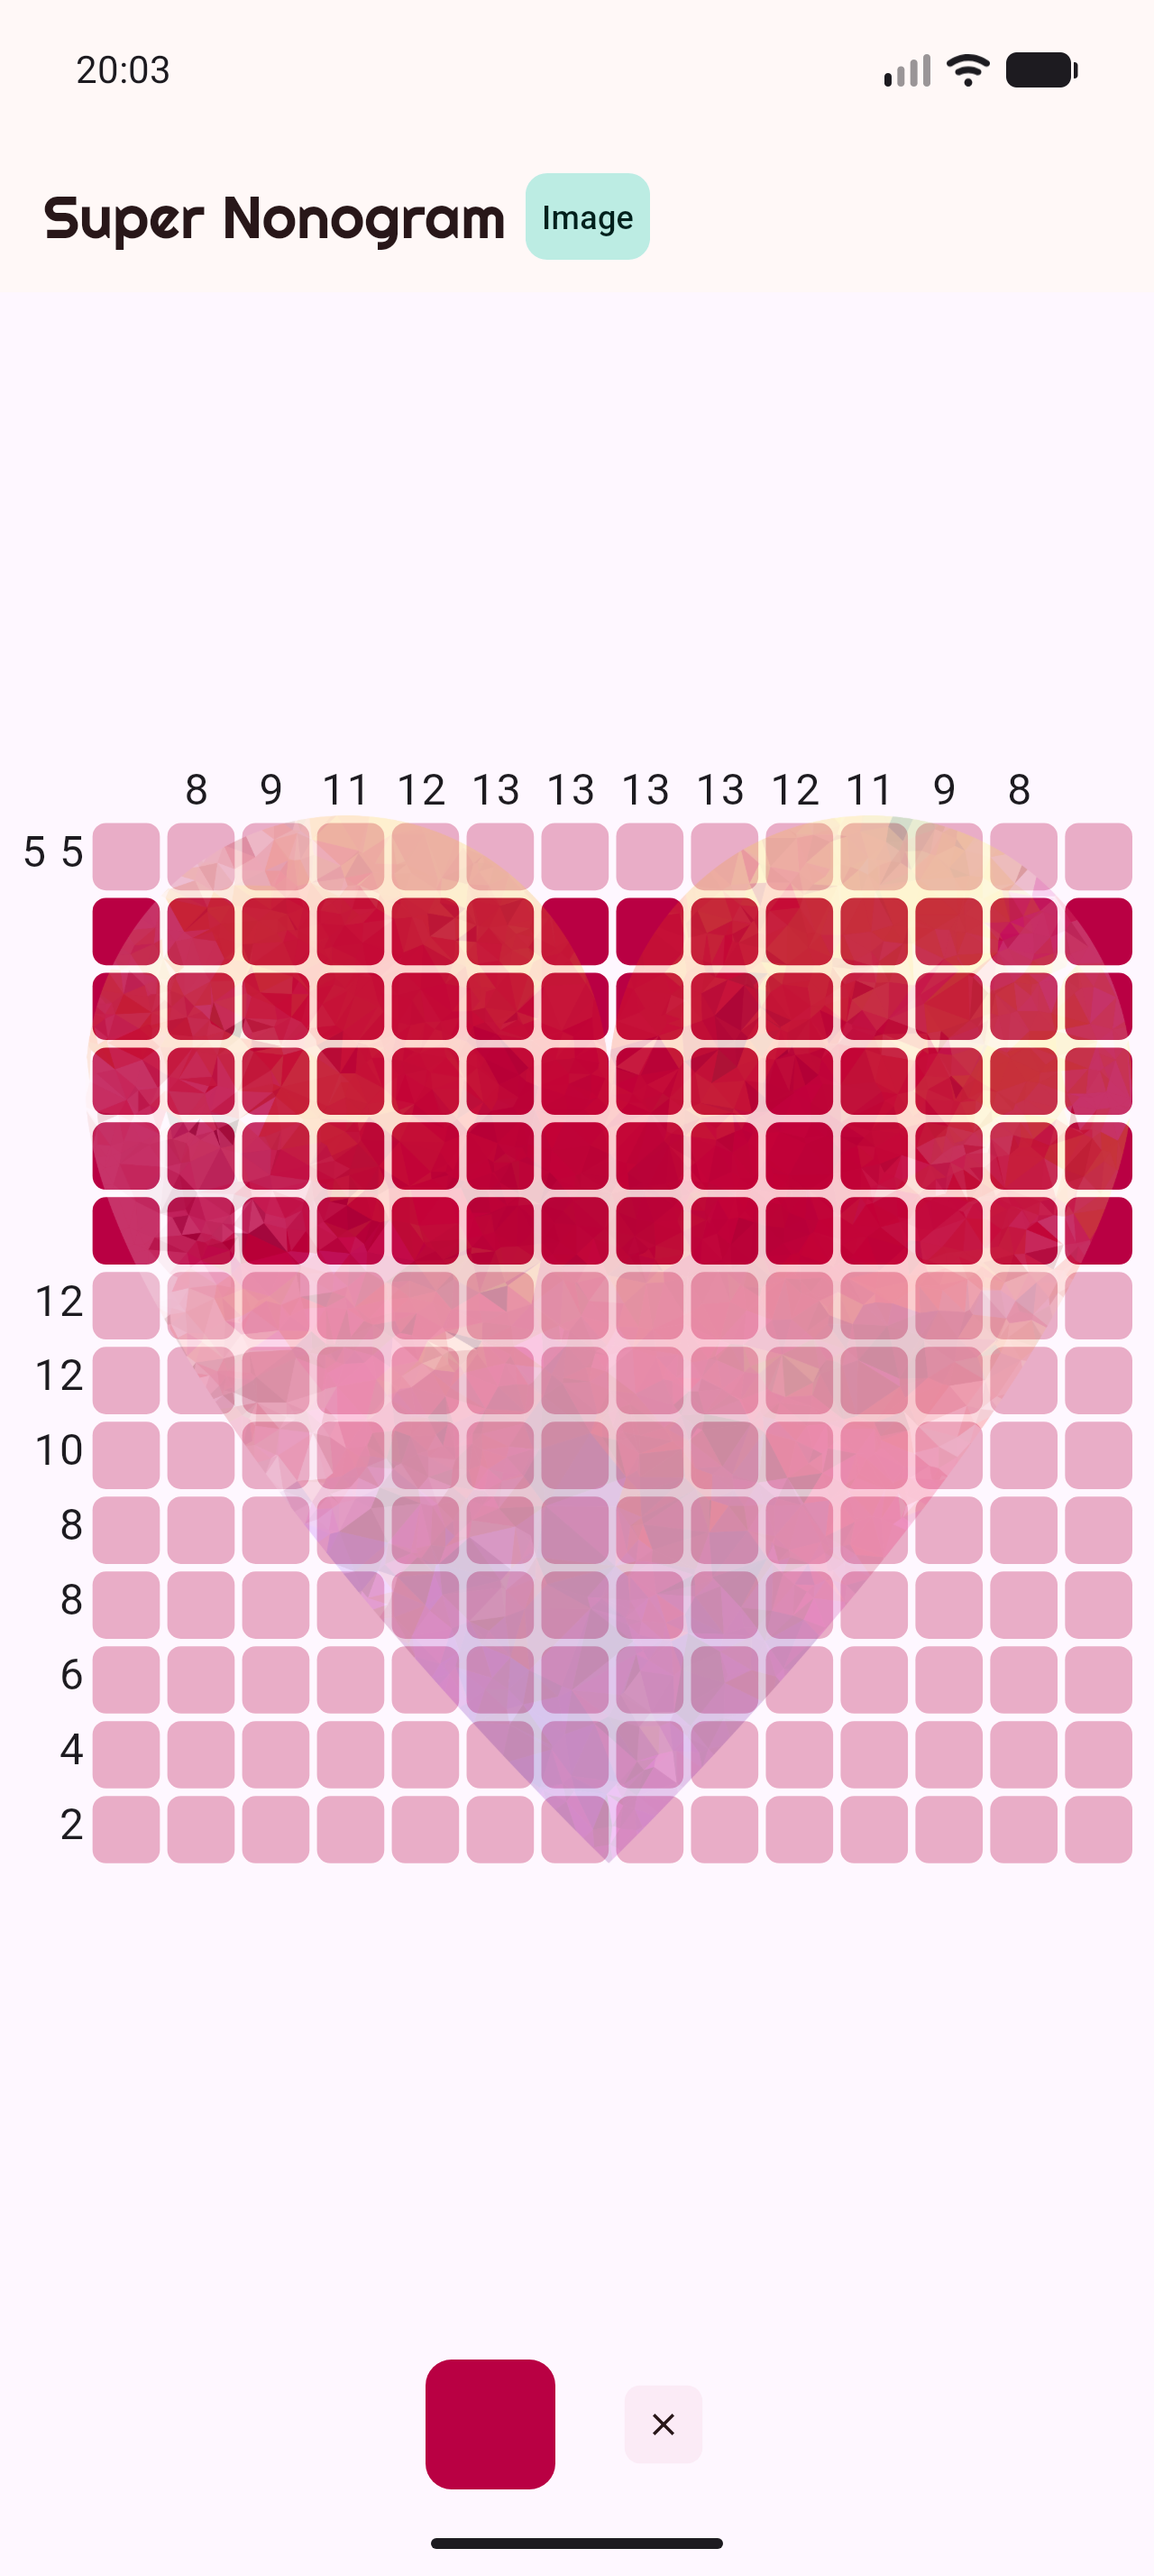
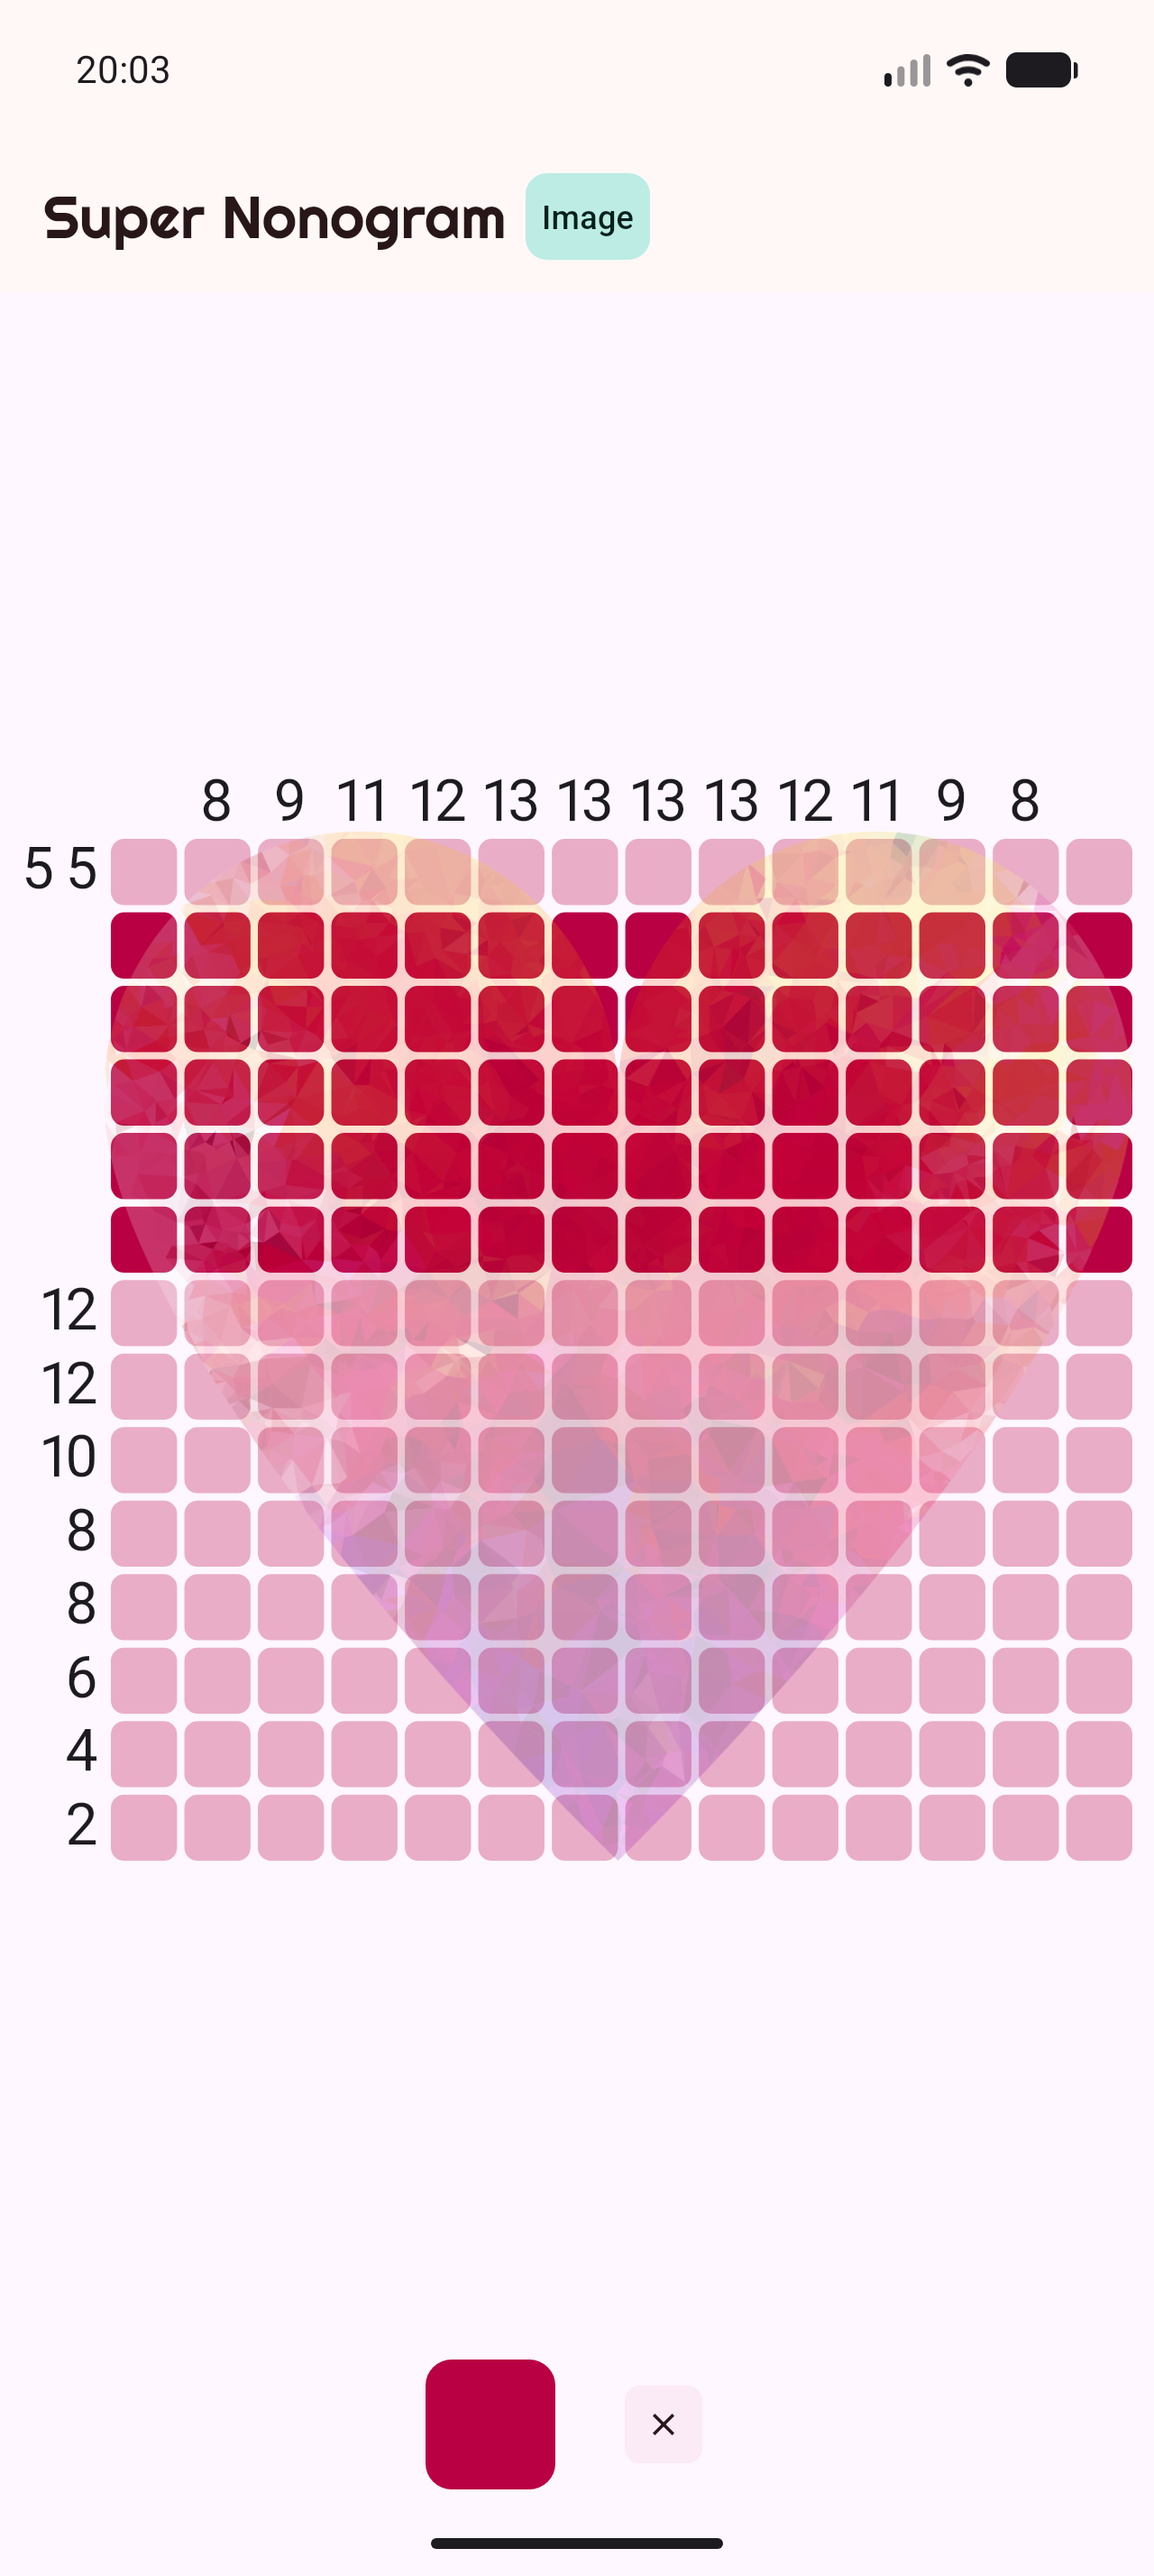
tweak: increase label size where possible

Changed region(s): [[0.0312, 0.2805, 1.0, 0.7167]]

diff --git a/lib/board/board_grid.dart b/lib/board/board_grid.dart
@@ -36,11 +36,22 @@ class BoardGrid extends StatelessWidget {
       child: ValueListenableBuilder(
         valueListenable: currentAnswers,
         builder: (context, currentAnswers, child) {
+          final size = MediaQuery.sizeOf(context);
+          final maxPossibleTileSize = min(
+            size.width / width,
+            // subtract 300 for header and footer
+            max((size.height - 300), 300) / height,
+          );
+          final labelFontSize = min(24.0, maxPossibleTileSize * 0.7);
+
           return _LabelledBoardGridRenderObjectWidget(
             answer: answer,
             currentAnswers: currentAnswers,
             textDirection: Directionality.of(context),
-            textStyle: TextTheme.of(context).bodyLarge!,
+            textStyle: TextTheme.of(context).bodyLarge!.copyWith(
+              fontSize: labelFontSize,
+              letterSpacing: labelFontSize * -0.1,
+            ),
             child: child,
           );
         },
@@ -181,6 +192,7 @@ class LabelledBoardGridRenderObject extends RenderBox
   late double _colLabelHeight;
   late double _rowLabelWidth;
   late double _tileSize;
+  late double _rowLabelSpacing;
 
   int get boardWidth => currentAnswers.columns.length;
   int get boardHeight => currentAnswers.rows.length;
@@ -217,7 +229,10 @@ class LabelledBoardGridRenderObject extends RenderBox
           ),
         )
         ..textDirection = textDirection
-        ..textAlign = TextAlign.center;
+        ..textAlign = TextAlign.center
+        // Font sizes are the biggest possible that fit within the tile size,
+        // so don't scale further.
+        ..textScaler = TextScaler.noScaling;
     }
     for (var y = 0; y < boardHeight; y++) {
       _rowLabelPainters[y]
@@ -233,12 +248,17 @@ class LabelledBoardGridRenderObject extends RenderBox
           ),
         )
         ..textDirection = textDirection
-        ..textAlign = TextAlign.end;
+        ..textAlign = TextAlign.end
+        // Font sizes are the biggest possible that fit within the tile size,
+        // so don't scale further.
+        ..textScaler = TextScaler.noScaling;
     }
   }
 
   @override
   void performLayout() {
+    _rowLabelSpacing = _textStyle.fontSize! * 0.2;
+
     // Find the max width of the row labels
     double maxRowLabelsWidth = 0;
     for (var y = 0; y < _rowLabelPainters.length; y++) {
@@ -246,6 +266,7 @@ class LabelledBoardGridRenderObject extends RenderBox
       painter.layout(maxWidth: constraints.maxWidth * 0.5);
       maxRowLabelsWidth = max(maxRowLabelsWidth, painter.width);
     }
+    maxRowLabelsWidth += _rowLabelSpacing;
     _rowLabelWidth = maxRowLabelsWidth;
 
     // Find the max height of the column labels
@@ -309,7 +330,7 @@ class LabelledBoardGridRenderObject extends RenderBox
       painter.paint(
         context.canvas,
         Offset(
-          offset.dx + (_rowLabelWidth - painter.width),
+          offset.dx + (_rowLabelWidth - _rowLabelSpacing - painter.width),
           offset.dy +
               _colLabelHeight +
               y * _tileSize +

diff --git a/test/board_labels_test.dart b/test/board_labels_test.dart
@@ -57,7 +57,7 @@ void main() {
       final labels = BoardLabels.fromBoardState(boardState, width, height);
 
       expect(labels.rows[0], equals([1, 1, 1]));
-      expect(labels.labelRow(0), '1 1 1');
+      expect(labels.labelRow(0), '1  1  1');
       for (int y = 1; y < height; ++y) {
         expect(labels.rows[y], isEmpty);
         expect(labels.labelRow(y), '');

diff --git a/lib/board/board_labels.dart b/lib/board/board_labels.dart
@@ -25,7 +25,8 @@ class BoardLabels {
   final List<List<int>> rows;
 
   String labelColumn(int x) => columns[x].join('\n');
-  String labelRow(int y) => rows[y].join(' ');
+  String labelRow(int y) =>
+      rows[y].join('  '); // 2 spaces due to negative letterSpacing
 
   @visibleForTesting
   const BoardLabels.fromLists({required this.columns, required this.rows});
